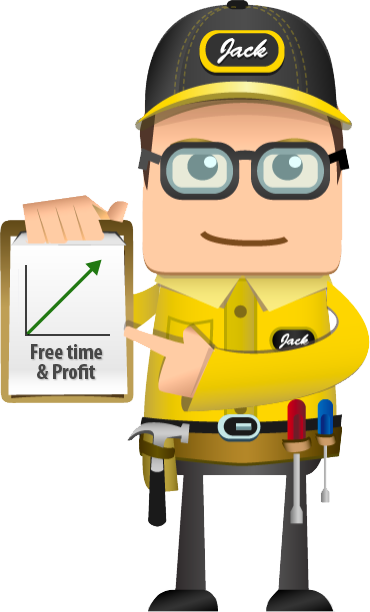
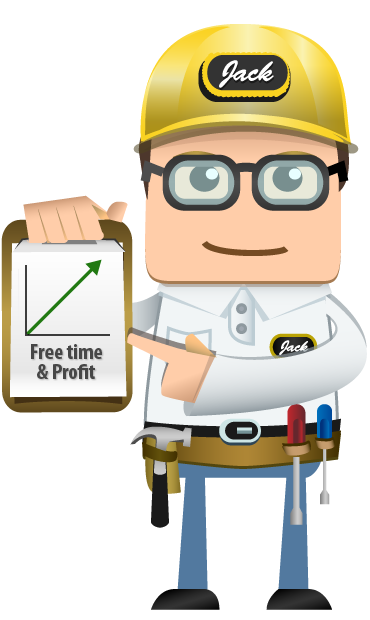
replaced JACK + cleaned up image folder + added JACK wordmark

diff --git a/css/styles.css b/css/styles.css
@@ -462,6 +462,10 @@ strong {
 
 #footer #logo {
   width: 159px;
-  margin: 15px auto;
+  margin: 8px auto;
   text-align: center;
+}
+
+#footer #logo img {
+  margin: 0px auto 8px auto;
 }
